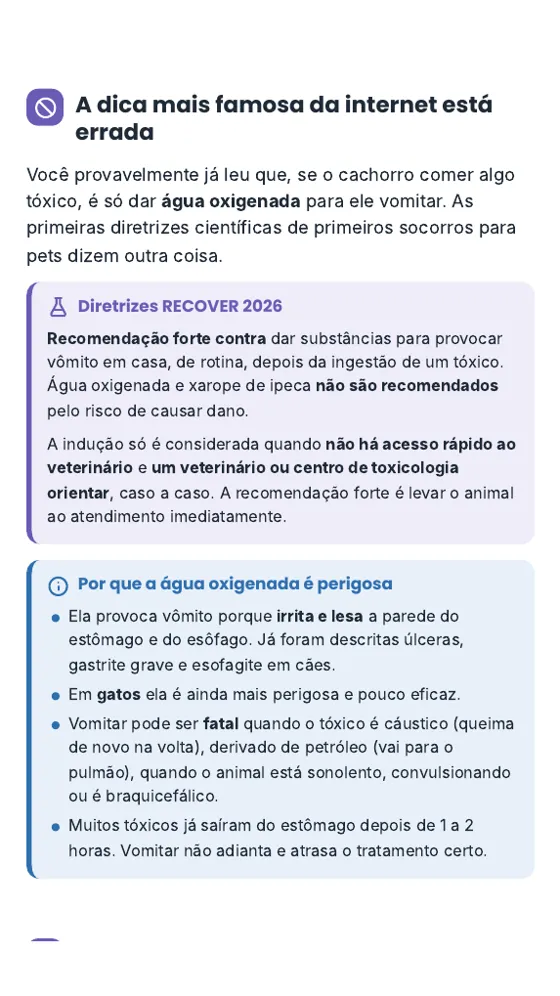
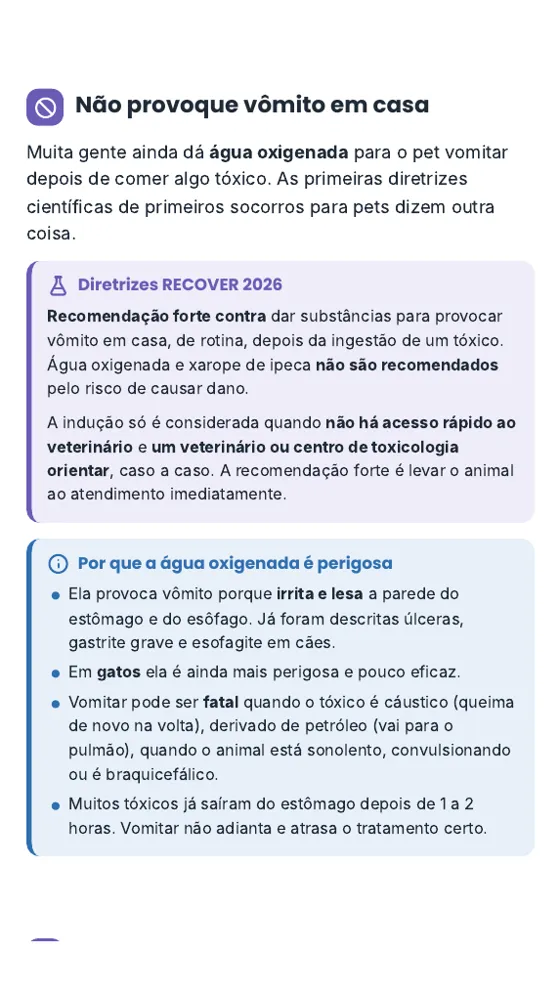
Mito do carvão ativado no lugar da água oxigenada
Claude-Session: https://claude.ai/code/session_01Ag8pLM5BTie9z1RKStb7Cy

Changed region(s): [[0.0304, 0.0934, 0.9107, 0.8715], [0.0304, 0.8404, 0.0607, 0.8715]]

diff --git a/index.html b/index.html
@@ -153,6 +153,11 @@ h3{font-size:20px;line-height:1.2;font-weight:800}
 .bottle .x{width:56px;height:56px;border-radius:50%;background:var(--red);display:grid;place-items:center;color:var(--on-red)}
 .bottle p{font-size:16.5px}
 .bottle strong{display:block;font-family:var(--display);font-stretch:118%;font-size:21px;line-height:1.15;color:var(--red-ink);margin-bottom:4px}
+.facts{display:grid;grid-template-columns:repeat(2,minmax(0,1fr));gap:10px}
+.fact{background:var(--surface);border:1px solid var(--line);border-radius:12px;padding:14px}
+.fact b{display:block;font-family:var(--display);font-stretch:118%;font-weight:850;font-size:17px;line-height:1.15;color:var(--red-ink);margin-bottom:6px}
+.fact p{font-size:14.5px;line-height:1.45;color:var(--ink2)}
+@media (max-width:380px){.facts{grid-template-columns:1fr}}
 .cite{border-left:3px solid var(--ink);padding:4px 0 4px 16px;font-size:16px}
 .cite small{display:block;margin-top:6px;font-size:13px;color:var(--ink2)}
 
@@ -319,16 +324,21 @@ footer p+p{margin-top:8px}
 
 <section>
   <div class="w">
-    <span class="tag">O mito mais perigoso</span>
-    <h2 style="margin-top:12px">A dica mais famosa da internet está errada</h2>
+    <span class="tag">O mito do momento</span>
+    <h2 style="margin-top:12px">"Dá carvão ativado que resolve." Não resolve.</h2>
     <div class="myth">
       <div class="bottle">
         <div class="x"><svg width="28" height="28" viewBox="0 0 24 24" fill="none" stroke="currentColor" stroke-width="3" stroke-linecap="round"><path d="M6 6l12 12M18 6L6 18"/></svg></div>
-        <p><strong>"Deu água oxigenada para ele vomitar."</strong>Ela provoca vômito porque lesa a parede do estômago e do esôfago. Em gatos é ainda mais perigosa. E vomitar pode piorar muito quando o produto é cáustico ou derivado de petróleo.</p>
+        <p><strong>"Comeu algo estranho? Dá carvão ativado."</strong>É a "solução" caseira mais compartilhada hoje. Só que o carvão ativado não é antídoto para qualquer coisa, e na maioria das vezes, em casa, ele não faz o que promete.</p>
       </div>
-      <p class="lead">Em agosto de 2026, especialistas em emergência veterinária publicaram as <b style="color:var(--ink)">primeiras diretrizes baseadas em evidências de primeiros socorros para cães e gatos</b>. Uma das recomendações é direta:</p>
-      <div class="cite">Recomendação forte contra induzir o vômito em casa, de rotina, depois da ingestão de um tóxico. Água oxigenada e xarope de ipeca não são recomendados. O animal deve ser levado ao atendimento imediatamente.<small>RECOVER Guidelines: First Aid for Dogs and Cats. Journal of Veterinary Emergency and Critical Care, 2026.</small></div>
-      <p class="lead">Esse é só um exemplo. O guia foi escrito a partir dessas diretrizes, para você parar de depender de "dica" na hora em que não pode errar.</p>
+      <div class="facts">
+        <div class="fact"><b>Não segura</b><p>xilitol, álcool, fluido de radiador, ferro, chumbo, sal, produtos cáusticos e derivados de petróleo.</p></div>
+        <div class="fact"><b>Dezenas de cápsulas</b><p>é o que um cão de 10 kg precisaria. O veterinário usa de 1 a 5 gramas por quilo. A dose caseira quase nunca chega perto.</p></div>
+        <div class="fact"><b>Pode ir para o pulmão</b><p>se o animal estiver sonolento, engasgar ou vomitar. Em filhotes, também pode desregular o sódio do sangue.</p></div>
+        <div class="fact"><b>Atrasa o que importa</b><p>A falsa sensação de "já fiz alguma coisa" segura o tutor em casa no tempo em que o tratamento faria diferença.</p></div>
+      </div>
+      <div class="cite">No hospital, o carvão ativado é uma ferramenta útil em casos selecionados, decidida pelo veterinário conforme o tóxico, a quantidade e o horário. Para o tutor, as diretrizes RECOVER 2026 de primeiros socorros são claras: levar o animal ao atendimento imediatamente.<small>MSPCA-Angell, Activated Charcoal (recursos clínicos); RECOVER Guidelines: First Aid for Dogs and Cats, Journal of Veterinary Emergency and Critical Care, 2026.</small></div>
+      <p class="lead">O mesmo vale para leite, azeite e outras receitas caseiras. O guia mostra o que fazer de verdade em cada intoxicação, e o que nunca fazer.</p>
     </div>
   </div>
 </section>
@@ -428,7 +438,7 @@ footer p+p{margin-top:8px}
     <div class="vs">
       <div class="col no"><h3>Sem preparo</h3><ul>
         <li>Você procura no Google com as mãos tremendo</li>
-        <li>Dá água oxigenada porque "todo mundo faz"</li>
+        <li>Dá carvão ativado "para puxar o veneno"</li>
         <li>Coloca a mão na boca do pet em convulsão</li>
         <li>Espera o sintoma aparecer para ir ao veterinário</li>
         <li>Não sabe qual clínica está aberta de madrugada</li>
@@ -464,7 +474,7 @@ footer p+p{margin-top:8px}
       <div class="ticket-body">
         <h3>Guia Prático de Primeiros Socorros para Cães e Gatos</h3>
         <ul class="inc">
-          <li><span><b>Guia completo no formato de celular:</b> 89 telas, 13 partes, ilustrações das manobras e sumário clicável</span></li>
+          <li><span><b>Guia completo no formato de celular:</b> 90 telas, 13 partes, ilustrações das manobras e sumário clicável</span></li>
           <li><span><b>Kit de 12 cartões de emergência</b> em PDF para imprimir: semáforo, RCP, engasgo, intoxicação, plantas e mais</span></li>
           <li><span><b>Mais de 50 situações</b>, com sinais, passo a passo e o que não fazer</span></li>
           <li><span>Baseado nas <b>diretrizes RECOVER 2026</b> de primeiros socorros e <b>2024</b> de RCP</span></li>
